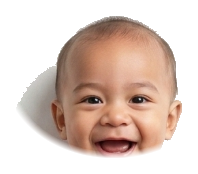
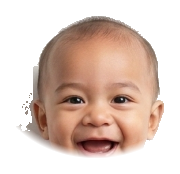
Fix: combine cushion removal + oval mask for clean head crop v2

Changed region(s): [[0.0833, 0.0862, 0.9444, 0.9195], [0.6111, 0.1724, 0.6667, 0.2011], [0.6389, 0.4598, 0.6667, 0.4885]]

diff --git a/index.html b/index.html
@@ -827,7 +827,7 @@
               </g>
               <!-- Head (Eren's real face, front-facing chibi style) -->
               <g class="ghead" style="transform-origin: 46px 45px;">
-                <image href="eren-front-head-clean.png" x="11" y="-14" width="70" height="62"/>
+                <image href="eren-front-head-clean.png" x="11" y="-20" width="70" height="68"/>
               </g>
               <!-- Front Leg -->
               <g class="leg-front" style="transform-origin: 55px 75px;">
